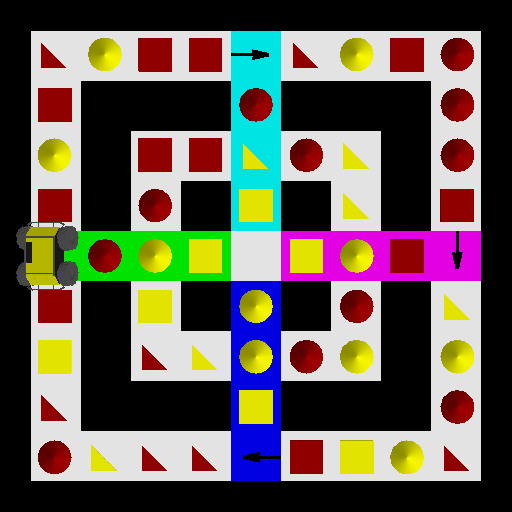
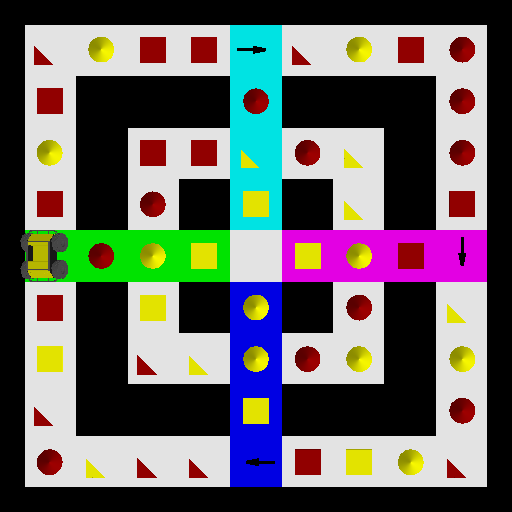
arena size increased

diff --git a/vision-arena/vision_arena/envs/vision2arena.py b/vision-arena/vision_arena/envs/vision2arena.py
@@ -77,66 +77,66 @@ class VisionArena(gym.Env):
 		}
 		def get_postion(i, j):
 			if self.arena[i, j] % 3 == 2: # If the shape is a triangle
-				return [3.2-i*0.75, 3.2-j*0.75, 0.03]
-			return [3-i*0.75,3-j*0.75,0.03]
+				return [4.3-i*1, 4.3-j*1, 0.03]
+			return [4-i*1,4-j*1,0.03]
 
 		for i in range(9):
 			for j in range(9):
 				if (i==0 or i==8) and j!=4:
-						p.loadURDF('rsc/base plate/base plate white.urdf', [3-i*0.75,3-j*0.75,0], p.getQuaternionFromEuler([0,0,0]), useFixedBase=1)
+						p.loadURDF('rsc/base plate/base plate white.urdf', [4-i*1,4-j*1,0], p.getQuaternionFromEuler([0,0,0]), useFixedBase=1)
 						p.loadURDF(shape_colour_dict[self.arena[i, j]], get_postion(i, j), p.getQuaternionFromEuler([0,0,np.pi]), useFixedBase=1)
 						self.arena[i, j] = self.arena[i, j] + 1
 				elif (i==1 or i==7) and (j==0 or j==8):
-						p.loadURDF('rsc/base plate/base plate white.urdf', [3-i*0.75,3-j*0.75,0], p.getQuaternionFromEuler([0,0,0]), useFixedBase=1)
+						p.loadURDF('rsc/base plate/base plate white.urdf', [4-i*1,4-j*1,0], p.getQuaternionFromEuler([0,0,0]), useFixedBase=1)
 						p.loadURDF(shape_colour_dict[self.arena[i, j]], get_postion(i, j), p.getQuaternionFromEuler([0,0,np.pi]), useFixedBase=1)
 						self.arena[i, j] = self.arena[i, j] + 1
 				elif (i==2 or i==6) and (j!=1 and j!=7 and j!=4):
-						p.loadURDF('rsc/base plate/base plate white.urdf', [3-i*0.75,3-j*0.75,0], p.getQuaternionFromEuler([0,0,0]), useFixedBase=1)
+						p.loadURDF('rsc/base plate/base plate white.urdf', [4-i*1,4-j*1,0], p.getQuaternionFromEuler([0,0,0]), useFixedBase=1)
 						p.loadURDF(shape_colour_dict[self.arena[i, j]], get_postion(i, j), p.getQuaternionFromEuler([0,0,np.pi]), useFixedBase=1)
 						self.arena[i, j] = self.arena[i, j] + 1
 				elif (i==3 or i==5) and (j%2==0 and j!=4):
-						p.loadURDF('rsc/base plate/base plate white.urdf', [3-i*0.75,3-j*0.75,0], p.getQuaternionFromEuler([0,0,0]), useFixedBase=1)
+						p.loadURDF('rsc/base plate/base plate white.urdf', [4-i*1,4-j*1,0], p.getQuaternionFromEuler([0,0,0]), useFixedBase=1)
 						p.loadURDF(shape_colour_dict[self.arena[i, j]], get_postion(i, j), p.getQuaternionFromEuler([0,0,np.pi]), useFixedBase=1)
 						self.arena[i, j] = self.arena[i, j] + 1
 				elif (i==4 and j!=4):
 					if j<4:
-						p.loadURDF(base_plate_dict[base_plate_colours[0]], [3-i*0.75,3-j*0.75,0], p.getQuaternionFromEuler([0,0,0]), useFixedBase=1)
+						p.loadURDF(base_plate_dict[base_plate_colours[0]], [4-i*1,4-j*1,0], p.getQuaternionFromEuler([0,0,0]), useFixedBase=1)
 						if j==0:
-							p.loadURDF('rsc/arrow/arrow.urdf', [3-i*0.75,3-j*0.75,0.03], p.getQuaternionFromEuler([0,0,-np.pi/2]), useFixedBase=1)
+							p.loadURDF('rsc/arrow/arrow.urdf', [4-i*1,4-j*1,0.03], p.getQuaternionFromEuler([0,0,-np.pi/2]), useFixedBase=1)
 							self.arena[i, j] = base_plate_colours[0] + 31
 						else:
 							p.loadURDF(shape_colour_dict[self.arena[i, j]], get_postion(i, j), p.getQuaternionFromEuler([0,0,np.pi]), useFixedBase=1)
 							self.arena[i, j] = (base_plate_colours[0] + 1) * 6 + self.arena[i, j] + 1
 					else:
-						p.loadURDF(base_plate_dict[base_plate_colours[1]], [3-i*0.75,3-j*0.75,0], p.getQuaternionFromEuler([0,0,0]), useFixedBase=1)
+						p.loadURDF(base_plate_dict[base_plate_colours[1]], [4-i*1,4-j*1,0], p.getQuaternionFromEuler([0,0,0]), useFixedBase=1)
 						if j == 8:
-							p.loadURDF('rsc/arrow/arrow.urdf', [3-i*0.75,3-j*0.75,0.03], p.getQuaternionFromEuler([0,0,np.pi/2]), useFixedBase=1)
+							p.loadURDF('rsc/arrow/arrow.urdf', [4-i*1,4-j*1,0.03], p.getQuaternionFromEuler([0,0,np.pi/2]), useFixedBase=1)
 							self.arena[i, j] = base_plate_colours[1] + 31
 						else:
 							p.loadURDF(shape_colour_dict[self.arena[i, j]], get_postion(i, j), p.getQuaternionFromEuler([0,0,np.pi]), useFixedBase=1)
 							self.arena[i, j] = (base_plate_colours[1] + 1) * 6 + self.arena[i, j] + 1
 				elif (j == 4 and i != 4):
 					if i < 4:
-						p.loadURDF(base_plate_dict[base_plate_colours[2]], [3-i*0.75,3-j*0.75,0], p.getQuaternionFromEuler([0,0,0]), useFixedBase=1)
+						p.loadURDF(base_plate_dict[base_plate_colours[2]], [4-i*1,4-j*1,0], p.getQuaternionFromEuler([0,0,0]), useFixedBase=1)
 						if i == 0:
-							p.loadURDF('rsc/arrow/arrow.urdf', [3-i*0.75,3-j*0.75,0.03], p.getQuaternionFromEuler([0,0,np.pi]), useFixedBase=1)
+							p.loadURDF('rsc/arrow/arrow.urdf', [4-i*1,4-j*1,0.03], p.getQuaternionFromEuler([0,0,np.pi]), useFixedBase=1)
 							self.arena[i, j] = base_plate_colours[2] + 31
 						else:
 							p.loadURDF(shape_colour_dict[self.arena[i, j]], get_postion(i, j), p.getQuaternionFromEuler([0,0,np.pi]), useFixedBase=1)
 							self.arena[i, j] = (base_plate_colours[2] + 1) * 6 + self.arena[i, j] + 1
 					else:
-						p.loadURDF(base_plate_dict[base_plate_colours[3]], [3-i*0.75,3-j*0.75,0], p.getQuaternionFromEuler([0,0,0]), useFixedBase=1)
+						p.loadURDF(base_plate_dict[base_plate_colours[3]], [4-i*1,4-j*1,0], p.getQuaternionFromEuler([0,0,0]), useFixedBase=1)
 						if i == 8:
-							p.loadURDF('rsc/arrow/arrow.urdf', [3-i*0.75,3-j*0.75,0.03], p.getQuaternionFromEuler([0,0,0]), useFixedBase=1)
+							p.loadURDF('rsc/arrow/arrow.urdf', [4-i*1,4-j*1,0.03], p.getQuaternionFromEuler([0,0,0]), useFixedBase=1)
 							self.arena[i, j] = base_plate_colours[3] + 31
 						else:
 							p.loadURDF(shape_colour_dict[self.arena[i, j]], get_postion(i, j), p.getQuaternionFromEuler([0,0,np.pi]), useFixedBase=1)
 							self.arena[i, j] = (base_plate_colours[3] + 1) * 6 + self.arena[i, j] + 1
 				elif i == 4 and j == 4:
-					p.loadURDF('rsc/base plate/base plate white.urdf', [3-i*0.75,3-j*0.75,0], p.getQuaternionFromEuler([0,0,0]), useFixedBase=1)
+					p.loadURDF('rsc/base plate/base plate white.urdf', [4-i*1,4-j*1,0], p.getQuaternionFromEuler([0,0,0]), useFixedBase=1)
 					self.arena[i, j] = -1
 				else:
-					p.loadURDF('rsc/base plate/base plate black.urdf', [3-i*0.75,3-j*0.75,0], p.getQuaternionFromEuler([0,0,0]), useFixedBase=1)
+					p.loadURDF('rsc/base plate/base plate black.urdf', [4-i*1,4-j*1,0], p.getQuaternionFromEuler([0,0,0]), useFixedBase=1)
 					self.arena[i, j] = 0
 		print(self.arena)
 
@@ -148,13 +148,13 @@ class VisionArena(gym.Env):
 
 	def camera_feed(self):
 		look = [0, 0, 0.2]
-		cameraeyepos = [0, 0, 5]
+		cameraeyepos = [0, 0, 6.5]
 		cameraup = [0, -1, 0]
 		self._view_matrix = p.computeViewMatrix(cameraeyepos, look, cameraup)
 		fov = 75
 		aspect = self._width / self._height
 		near = 0.8
-		far = 7
+		far = 10
 		self._proj_matrix = p.computeProjectionMatrixFOV(fov, aspect, near, far)
 		img_arr = p.getCameraImage(width=self._width,
                                height=self._height,
@@ -173,4 +173,4 @@ class VisionArena(gym.Env):
 		pos = [[0,4], [4,0], [8,4], [4,8]]
 		ori = [-np.pi/2, 0, np.pi/2, np.pi]
 		x = np.random.randint(0,3)
-		self.husky = p.loadURDF('husky/husky.urdf', [3-0.75*pos[x][0],3-0.75*pos[x][1],0], p.getQuaternionFromEuler([0,0,ori[x]]))
+		self.husky = p.loadURDF('husky/husky.urdf', [4-1*pos[x][0],4-1*pos[x][1],0], p.getQuaternionFromEuler([0,0,ori[x]]))
